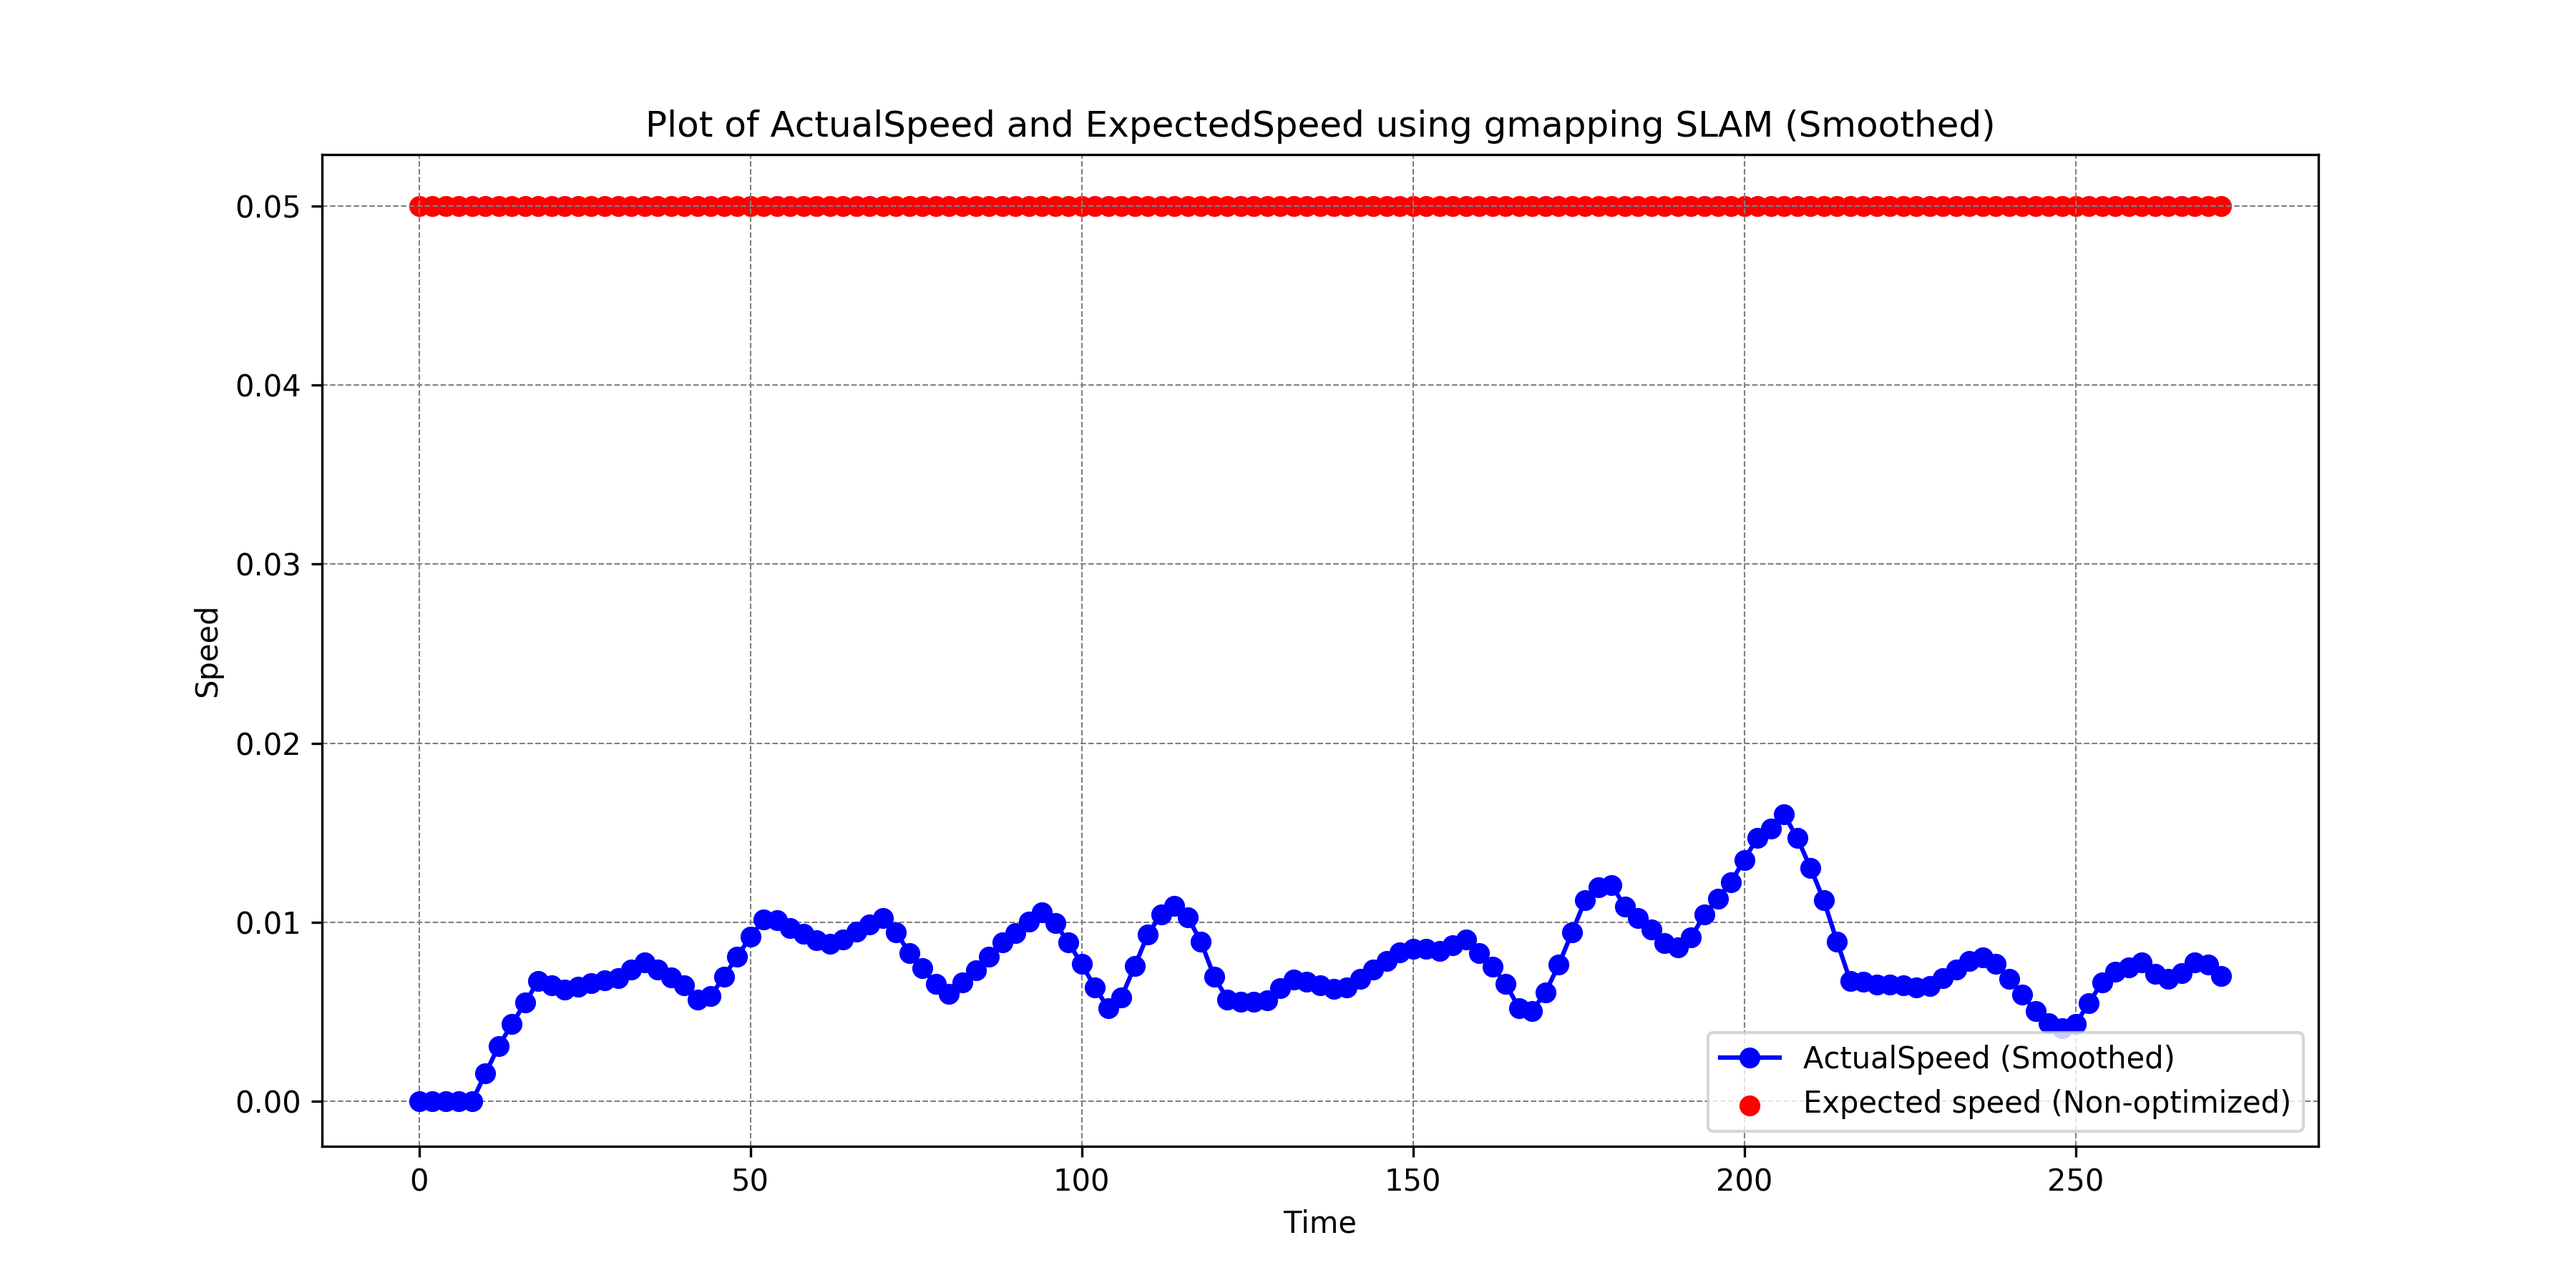
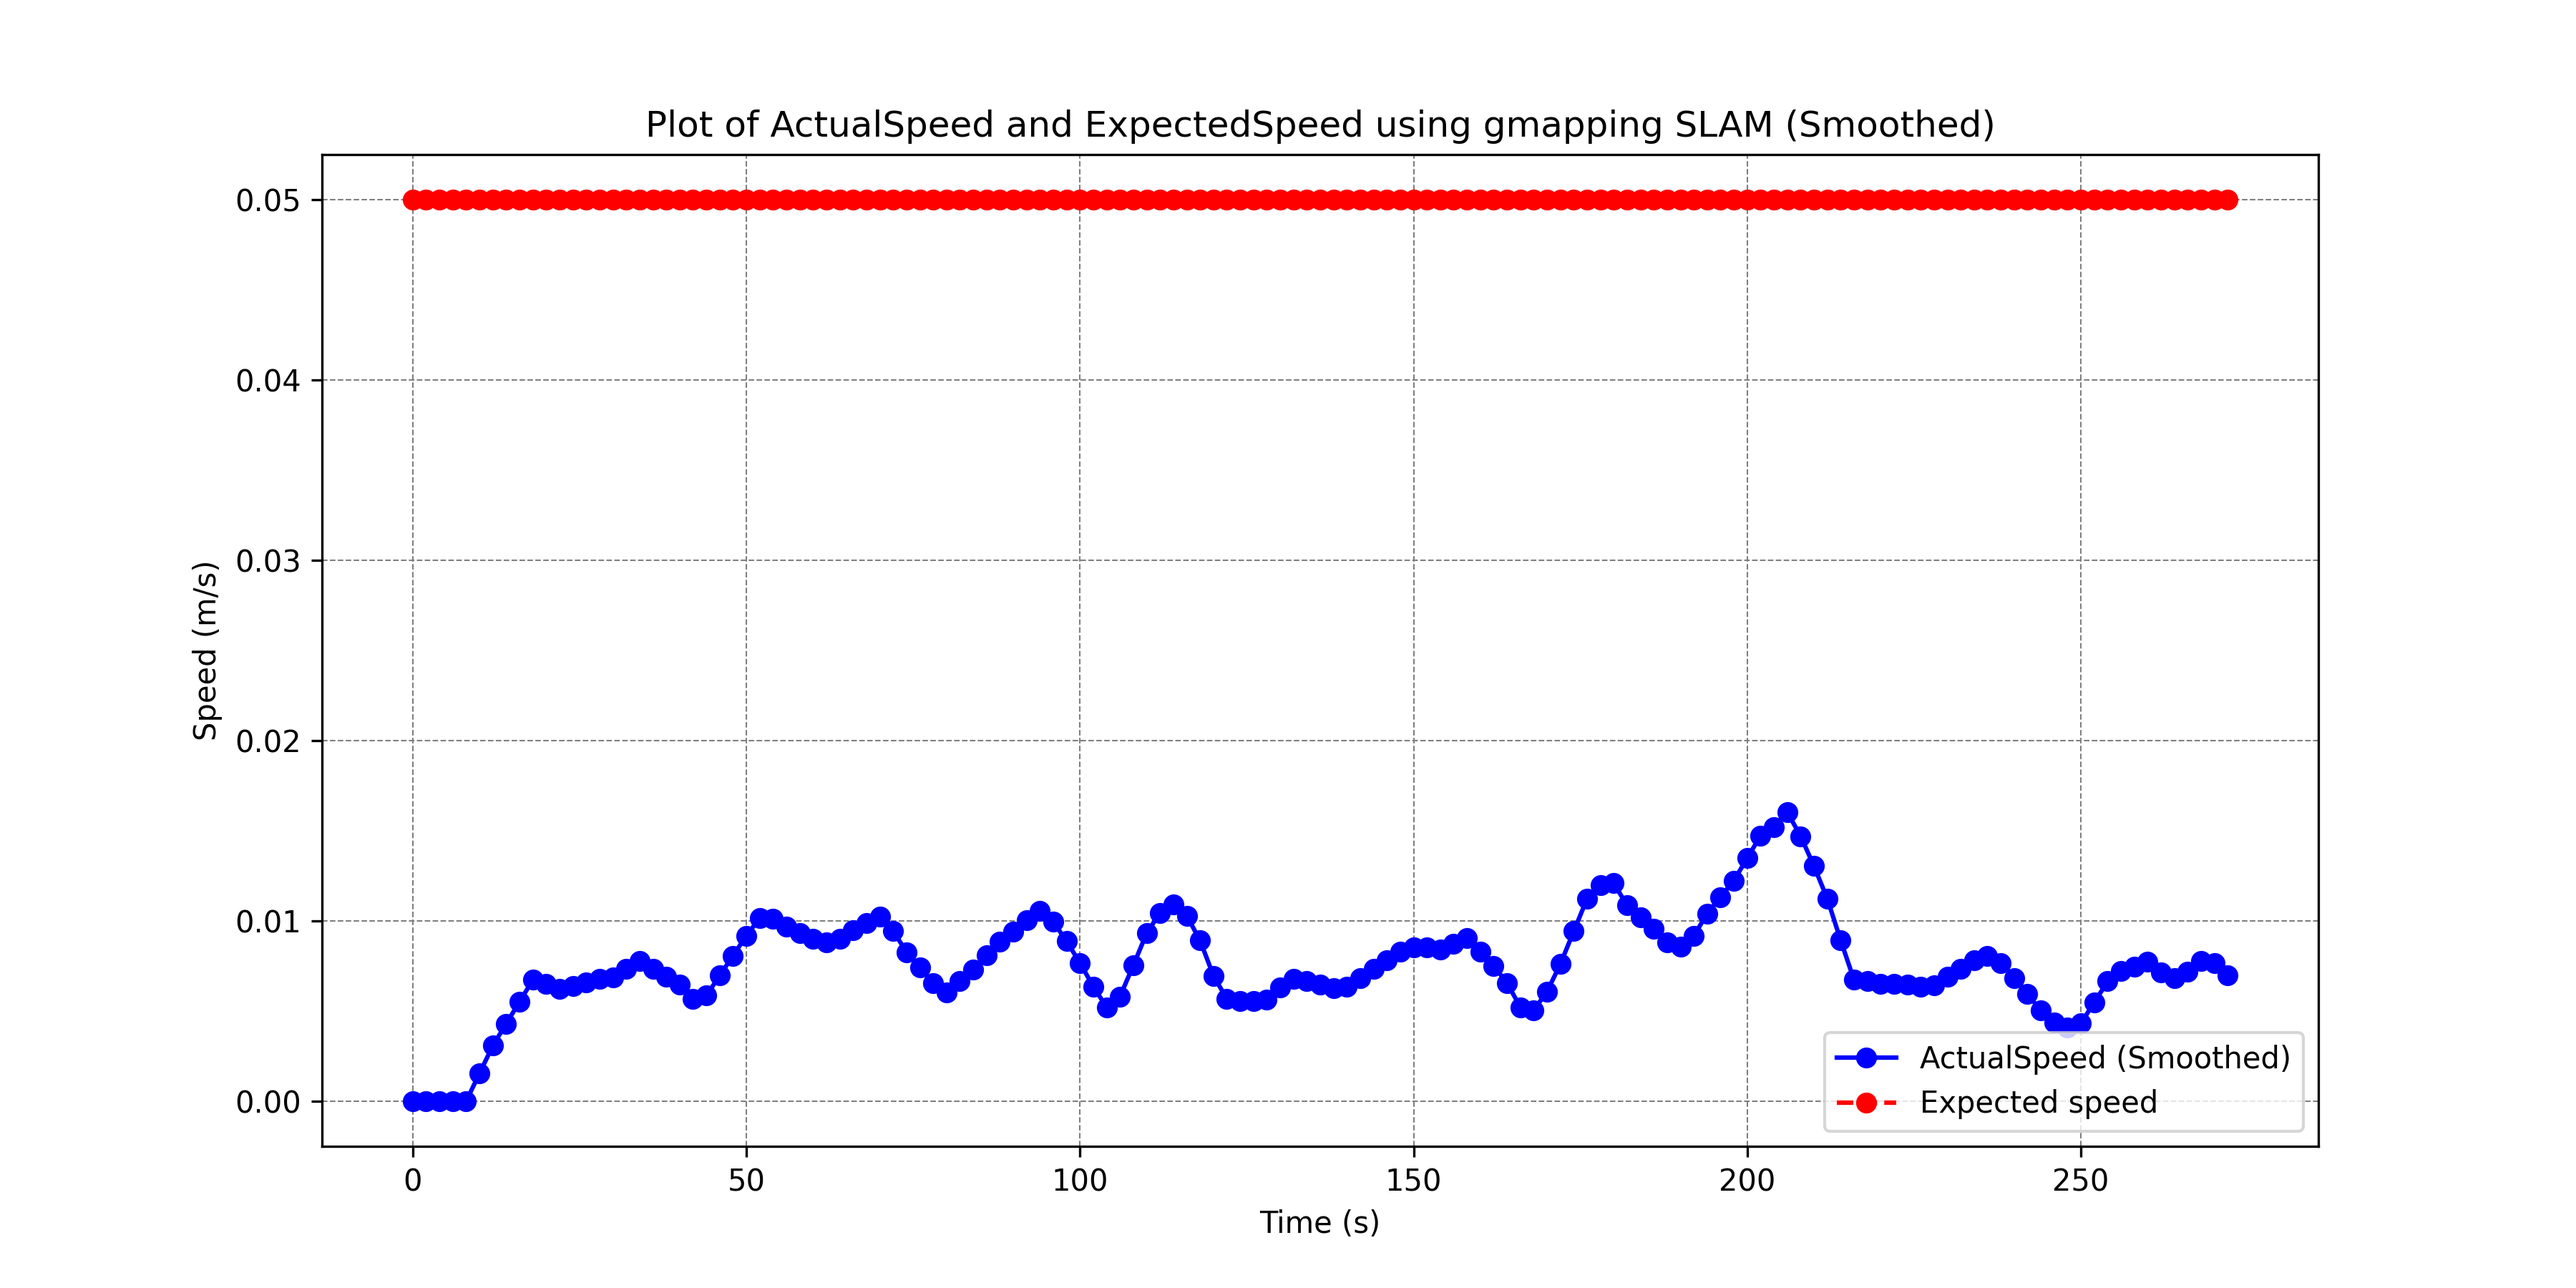
UpdateFigures

diff --git a/src/experiments/scripts/plotting.py b/src/experiments/scripts/plotting.py
@@ -17,7 +17,7 @@ def update_plot():
     timeWithoutTelegraf = []
 
     # Open and read the CSV file
-    with open('withoutTelegraf.csv', 'r') as file:
+    with open('../latency/data/timeDifferences.csv', 'r') as file:
         reader = csv.reader(file)
         for row in reader:
             # Convert the strings to floats and store them
@@ -27,6 +27,7 @@ def update_plot():
             fourth_values.append(float(row[3]))
             fifth_values.append(float(row[4]))
             sixth_values.append(float(row[5]))
+            #second_values.append(row[1].strip().lower() == 'false')
     
     for i in range(len(first_values)):
             timeWithoutTelegraf.append(abs(first_values[i]-second_values[i]))
@@ -46,15 +47,15 @@ def update_plot():
     plt.figure(figsize=(12, 6))
 
     # Plot second value
-    plt.plot(x_values, timeWithTelegrafSlow, label='Time difference between sent and received message with Telegraf - 0.001s', linestyle='-', color='magenta')
-    plt.plot(x_values, timeWithTelegrafFast, label='Time difference between sent and received message with Telegraf - 1s', linestyle='-', color='green')
-    #plt.plot(x_values, timeWithoutTelegraf, label='Time difference between sent and received message without Telegraf', linestyle='-', color='cyan')
+    plt.plot(x_values, timeWithTelegrafSlow, label='Time difference between sent and received message with Telegraf - 1s', linestyle='-', color='magenta')
+    plt.plot(x_values, timeWithTelegrafFast, label='Time difference between sent and received message with Telegraf - 0.001s', linestyle='-', color='green')
+    plt.plot(x_values, timeWithoutTelegraf, label='Time difference between sent and received message without Telegraf', linestyle='-', color='cyan')
     # Plotting lower and upper bounds
     #plt.axhline(y=0.22, label='Upper bound', color='red')
     #plt.axhline(y=0.00, label='Lower bound', color='green')
 
     # Plot the second values with dashed line
-    #plt.plot(x_values, second_values, label='BrakingDistance', linestyle='--', color='magenta')
+    #plt.plot(x_values, first_values, label='ActualSpeed', linestyle='--', marker='o', color='cyan')
 
     #third_values_ahead = third_values[:27]
     #third_values_behind = third_values[28:]
@@ -65,17 +66,16 @@ def update_plot():
 
     # Highlight the points based on the fourth column
     '''
-    for x, y, is_optimized in zip(x_values, first_values, fourth_value):
+    for x, y, is_optimized in zip(x_values, first_values, second_values):
         if is_optimized:
-            plt.scatter(x, y, color='red', marker='x', label='Validation triggered' if 'Validation triggered' not in plt.gca().get_legend_handles_labels()[1] else "")
-        else:
-            plt.scatter(x, y, color='cyan', label='ActualSpeed' if 'ActualSpeed' not in plt.gca().get_legend_handles_labels()[1] else "")
+            plt.scatter(x, y, color='red', marker='x', zorder=2, label='Validation triggered' if 'Validation triggered' not in plt.gca().get_legend_handles_labels()[1] else "")
+        if y == -0.0018689027240879064:
+            plt.scatter(x, y, color='yellow', marker='o', zorder=3, label='False negative' if 'False negative' not in plt.gca().get_legend_handles_labels()[1] else "")
     '''
-
     # Add labels and title
     plt.xlabel('Execution time (s)')
-    plt.ylabel('Message Latency (s)')
-    plt.title('Plot of latency test between send and received message - Comparing Telegraf parameters with no Telegraf')
+    plt.ylabel('Message latency (s)')
+    plt.title('Plot of latency test between send and received message - Comparing different Telegraf parameters with no Telegraf')
     
 
     # Customize the grid and tick marks
@@ -84,7 +84,7 @@ def update_plot():
     plt.legend()
 
     # Save the plot to a file
-    plt.savefig('withTelegraf.png', dpi=300)  # Save as PNG file with high resolution
+    plt.savefig('timeDiffsConclusion.png', dpi=300)  # Save as PNG file with high resolution
 
     # Close the plot to free memory
     plt.close()

diff --git a/src/experiments/scripts/plot_smooth.py b/src/experiments/scripts/plot_smooth.py
@@ -10,7 +10,7 @@ def update_plot():
     third_values = []
 
     # Open and read the CSV file
-    with open('C.csv', 'r') as file:
+    with open('../SLAM/data/HectorStandingStill.csv', 'r') as file:
         reader = csv.reader(file)
         for row in reader:
             # Convert the strings to floats and store them
@@ -33,25 +33,23 @@ def update_plot():
 
     # Create the plot
     plt.figure(figsize=(12, 6))
-    plt.ylim(0, 0.125)
+    #plt.ylim(0, 0.125)
 
     # Plot the first values
     plt.plot(x_values, first_smoothed, label='ActualSpeed (Smoothed)', linestyle='-', marker='o', color='blue')
 
     # Plot the second values with dashed line
-    plt.plot(x_values, second_values, label='Expected speed', linestyle='--', color='red')
+    plt.plot(x_values, second_values, label='Expected speed', linestyle='--', marker='o', color='red')
 
     # Highlight the points based on the third column
     for x, y, is_optimized in zip(x_values, second_values, third_values):
         if is_optimized:
-            plt.scatter(x, y, color='orange', label='Expected speed (Optimized)' if 'Expected speed (Optimized)' not in plt.gca().get_legend_handles_labels()[1] else "")
-        else:
-            plt.scatter(x, y, color='red', label='Expected speed (Non-optimized)' if 'Expected speed (Non-optimized)' not in plt.gca().get_legend_handles_labels()[1] else "")
+            plt.scatter(x, y, color='orange', zorder=2, label='Expected speed (Optimized)' if 'Expected speed (Optimized)' not in plt.gca().get_legend_handles_labels()[1] else "")
 
     # Add labels and title
-    plt.xlabel('Time')
-    plt.ylabel('Speed')
-    plt.title('Plot of ActualSpeed and ExpectedSpeed using gmapping SLAM (Smoothed)')
+    plt.xlabel('Time (s)')
+    plt.ylabel('Speed (m/s)')
+    plt.title('Plot of ActualSpeed and ExpectedSpeed using hector SLAM (Smoothed)')
     plt.legend()
 
     # Customize the grid and tick marks
@@ -59,7 +57,7 @@ def update_plot():
     plt.tick_params(colors='black')
 
     # Save the plot to a file
-    plt.savefig('testYAxis.png', dpi=300)  # Save as PNG file with high resolution
+    plt.savefig('hectorStill.png', dpi=300)  # Save as PNG file with high resolution
 
     # Close the plot to free memory
     plt.close()

diff --git a/src/experiments/scripts/plottingMultipleAxes.py b/src/experiments/scripts/plottingMultipleAxes.py
@@ -11,7 +11,7 @@ def update_plot():
     fourth_value = []
 
     # Open and read the CSV file
-    with open('safety.csv', 'r') as file:
+    with open('../safety/data/safety.csv', 'r') as file:
         reader = csv.reader(file)
         for row in reader:
             # Convert the strings to floats and store them
@@ -32,7 +32,7 @@ def update_plot():
     ax2 = ax1.twinx()
 
     # Plot the first values
-    points1 = ax1.scatter(x_values, first_values, color='cyan', label='ActualSpeed Points')
+    points1 = ax1.scatter(x_values, first_values, color='cyan', label='ActualSpeed')
     line1, = ax1.plot(x_values, first_values, linestyle='-', color='cyan', alpha=0.5)  # Plot the line but don't include it in the legend
 
     # Plot the second values with dashed line
@@ -55,13 +55,13 @@ def update_plot():
             braking_distance_points.append(ax2.scatter(x, y, color='magenta'))
 
     # Add labels and title
-    ax1.set_xlabel('Time')
-    ax1.set_ylabel('Speed')
-    ax2.set_ylabel('Distance')
+    ax1.set_xlabel('Time (s)')
+    ax1.set_ylabel('Speed (m/s)')
+    ax2.set_ylabel('Distance (m)')
 
     # Combine legends from both axes
     handles = [points1, line3, line4]
-    labels = ['ActualSpeed Points', 'Lidar[0] (Front of robot)', 'Lidar[179] (Back of robot)']
+    labels = ['ActualSpeed', 'Lidar[0] (Front of robot)', 'Lidar[179] (Back of robot)']
 
     
     if braking_distance_points:
@@ -74,9 +74,9 @@ def update_plot():
 
     ax1.legend(handles, labels, loc='upper right')
 
-    fig.tight_layout()  # otherwise the right y-label is slightly clipped   
+    plt.title('Plot of testing safety RMV with simulated data')
 
-    plt.title('Plot of testing safety runtime monitor with simulated data')
+    fig.tight_layout()  # otherwise the right y-label is slightly clipped   
 
     # Customize the grid and tick marks
     plt.grid(True, color='gray', linestyle='--', linewidth=0.5)
